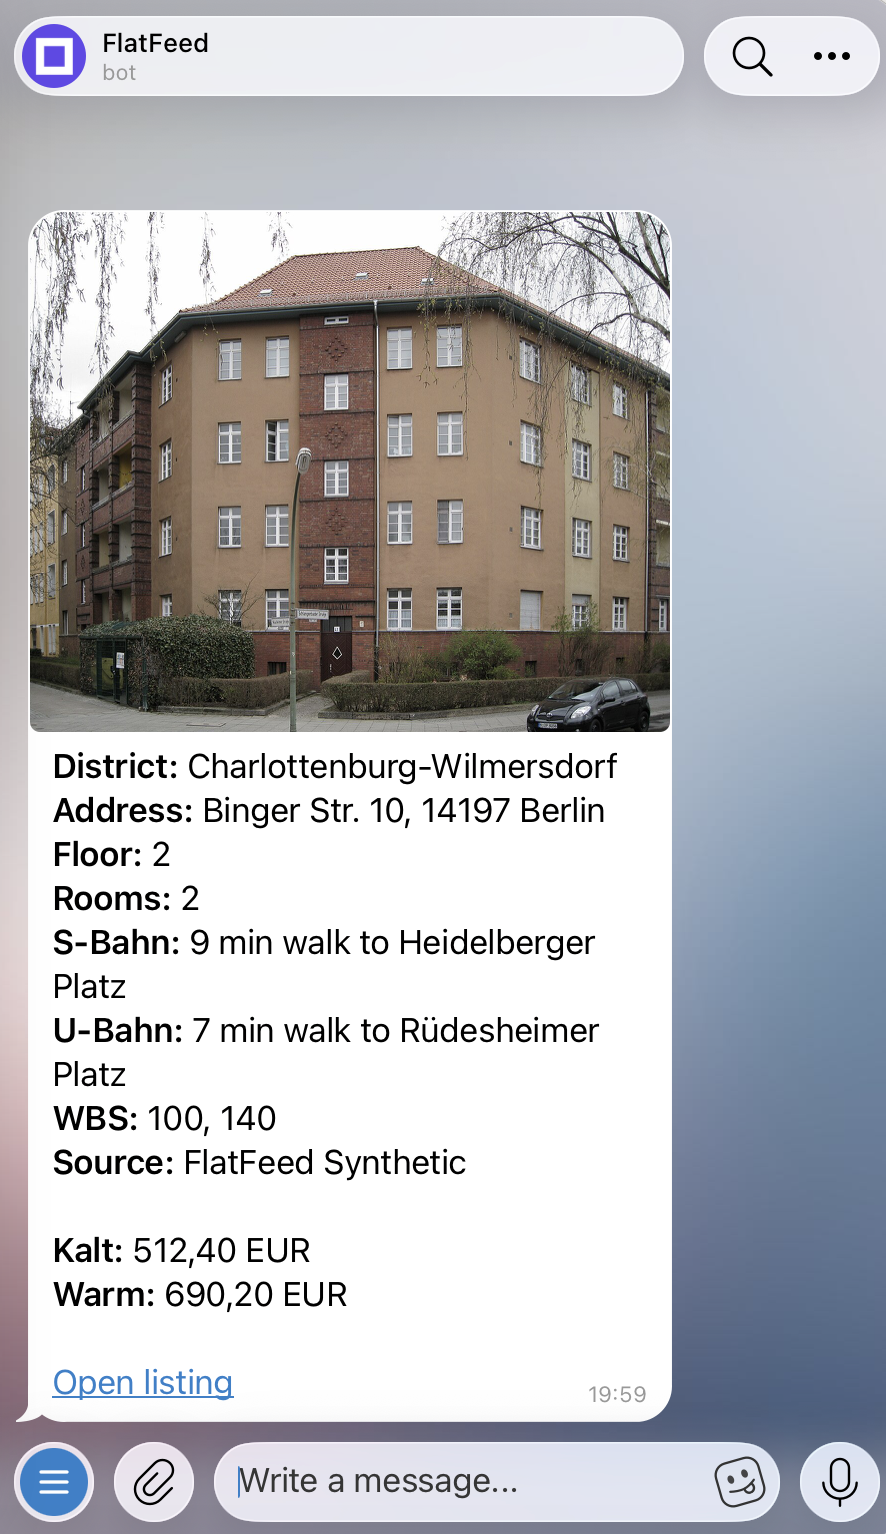
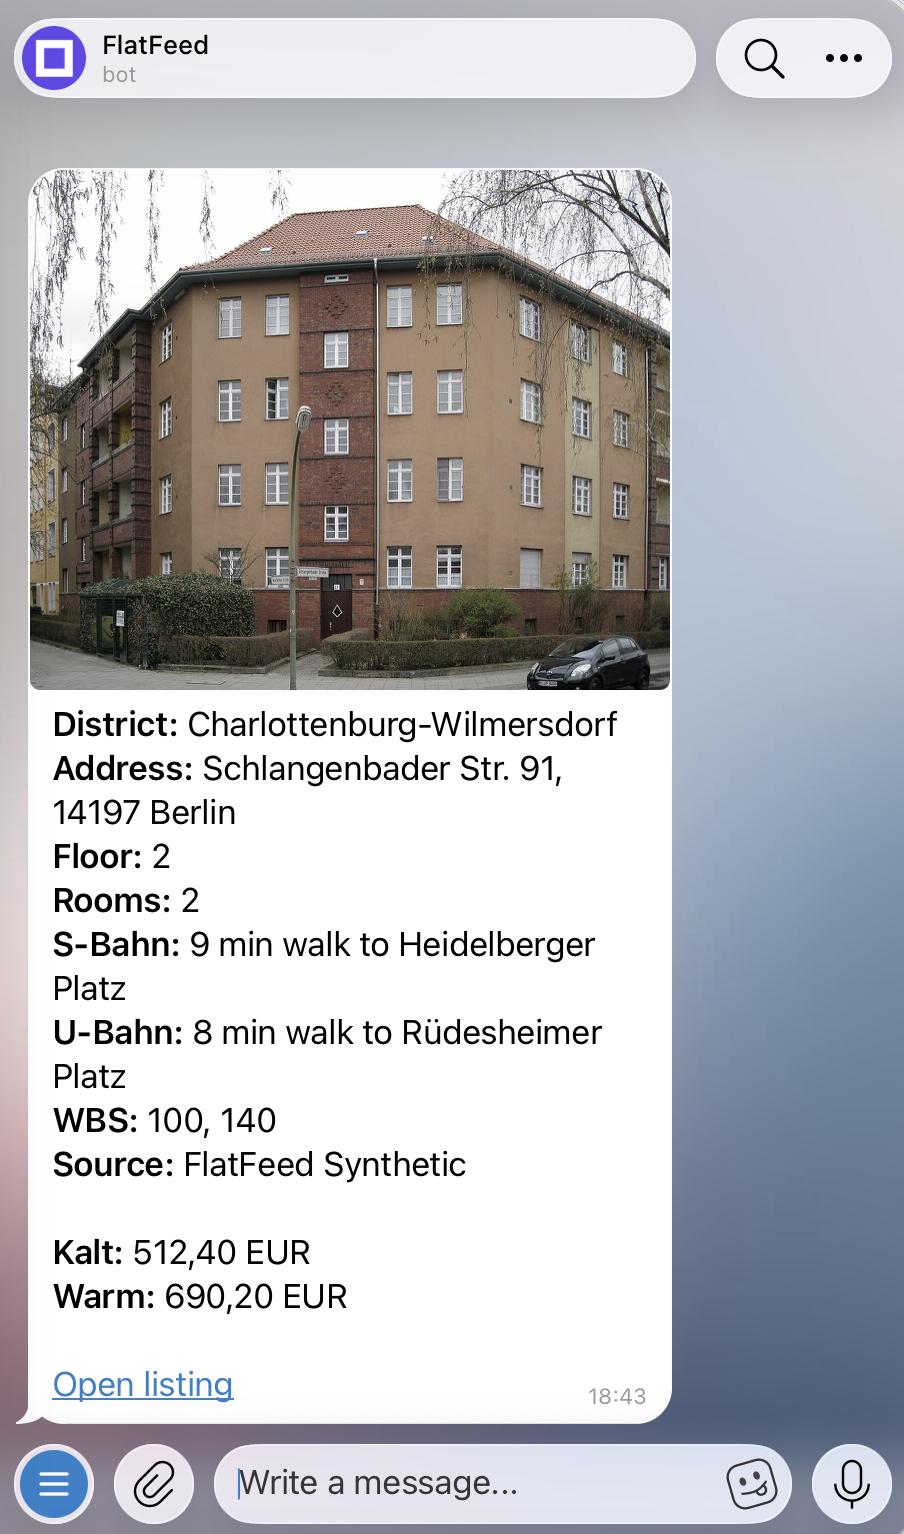
Align showcase photo with exact entrance

diff --git a/docs/demo-listing.html b/docs/demo-listing.html
@@ -52,8 +52,9 @@
           card. FlatFeed is a portfolio prototype: every listing it shows — including
           this one — comes from a local synthetic catalog, not a live housing company.
           There is no real apartment, availability, or landlord behind this page. In
-          the guided-tour showcase, the building photo and Binger Straße address are
-          a real location; the rent, floor, rooms, and WBS eligibility are synthetic.
+          the guided-tour showcase, the building photo and Schlangenbader Straße 91
+          address are a real location; the rent, floor, rooms, and WBS eligibility
+          are synthetic.
         </p>
         <p>
           Building photo: <a href="https://commons.wikimedia.org/wiki/File:Binger_Stra%C3%9Fe_10_Berlin-Wilmersdorf.jpg">Bodo Kubrak / Wikimedia Commons</a>,

diff --git a/docs/case-study.html b/docs/case-study.html
@@ -85,7 +85,7 @@
               <img
                 class="telegram-shot"
                 src="assets/flatfeed-telegram-showcase.png"
-                alt="Telegram demo screenshot showing a synthetic FlatFeed listing at Binger Str. 10 in Charlottenburg-Wilmersdorf"
+                alt="Telegram demo screenshot showing a synthetic FlatFeed listing at Schlangenbader Str. 91 in Charlottenburg-Wilmersdorf"
               >
             </div>
             <figcaption id="preview-caption">

diff --git a/synthetic/case_catalog.py b/synthetic/case_catalog.py
@@ -34,7 +34,7 @@ CASE_TEMPLATES: tuple[CaseTemplate, ...] = (
         postal_code="14197",
         title="2-Zimmer-Wohnung mit WBS 100-140",
         raw_text=(
-            "Adresse\nBinger Str. 10\n14197 Berlin, Wilmersdorf\n"
+            "Adresse\nSchlangenbader Str. 91\n14197 Berlin, Wilmersdorf\n"
             "Etage\n2\nZimmer\n2\nKaltmiete: 512,40 Euro\nWarmmiete: 690,20 Euro\n"
             "Für die Bewerbung ist ein WBS 100-140 erforderlich."
         ),
@@ -45,11 +45,11 @@ CASE_TEMPLATES: tuple[CaseTemplate, ...] = (
         truth_rooms=2.0,
         truth_floor="2",
         truth_bezirk="Charlottenburg-Wilmersdorf",
-        truth_lat=52.475428093256056,
-        truth_lon=13.30930906109402,
+        truth_lat=52.4758411,
+        truth_lon=13.3083927,
         photo_asset=(
             "assets/listing_photos/"
-            "berlin_wilmersdorf_binger_strasse_wohnblock.jpg"
+            "berlin_wilmersdorf_schlangenbader_strasse_91_wohnblock.jpg"
         ),
     ),
     CaseTemplate(

diff --git a/tests/test_synthetic_catalog.py b/tests/test_synthetic_catalog.py
@@ -31,12 +31,14 @@ class SyntheticCatalogTests(unittest.TestCase):
     def test_showcase_listing_photo_matches_its_real_location(self) -> None:
         listing = generate_synthetic_listings(count=1)[0]
 
-        self.assertIn("Binger Str. 10", listing.raw_text)
+        self.assertIn("Schlangenbader Str. 91", listing.raw_text)
         self.assertEqual(listing.truth_postal_code, "14197")
         self.assertEqual(listing.truth_bezirk, "Charlottenburg-Wilmersdorf")
+        self.assertEqual(listing.truth_lat, 52.4758411)
+        self.assertEqual(listing.truth_lon, 13.3083927)
         self.assertEqual(
             listing.image_url,
-            "assets/listing_photos/berlin_wilmersdorf_binger_strasse_wohnblock.jpg",
+            "assets/listing_photos/berlin_wilmersdorf_schlangenbader_strasse_91_wohnblock.jpg",
         )
 
     def test_all_case_templates_drive_address_level_coordinates(self) -> None:

diff --git a/synthetic/listing_photos.py b/synthetic/listing_photos.py
@@ -6,7 +6,7 @@ from pathlib import Path
 LISTING_PHOTO_ASSETS: tuple[str, ...] = (
     "assets/listing_photos/berlin_tempelhof_alboinplatz_wohnblock.jpg",
     "assets/listing_photos/berlin_hohenschoenhausen_suermondtstr_wohnblock.jpg",
-    "assets/listing_photos/berlin_wilmersdorf_binger_strasse_wohnblock.jpg",
+    "assets/listing_photos/berlin_wilmersdorf_schlangenbader_strasse_91_wohnblock.jpg",
     "assets/listing_photos/berlin_wedding_ostender_strasse_wohnblock.jpg",
     "assets/listing_photos/berlin_mitte_memhardstrasse_wohnblock.jpg",
 )

diff --git a/assets/listing_photos/LICENSES.md b/assets/listing_photos/LICENSES.md
@@ -2,8 +2,8 @@
 
 These photos are demo assets for FlatFeed synthetic listings. The guided-tour
 showcase is the documented exception to the general illustrative-photo pool:
-its Binger Straße image, address, district, and coordinates refer to the same
-real Berlin location. Apartment availability, rent, floor, rooms, and WBS
+its Schlangenbader Straße 91 image, address, district, and coordinates refer to the
+same real Berlin location. Apartment availability, rent, floor, rooms, and WBS
 eligibility remain synthetic.
 
 All files are local resized copies of Wikimedia Commons images.
@@ -12,6 +12,6 @@ All files are local resized copies of Wikimedia Commons images.
 | --- | --- | --- | --- |
 | `berlin_tempelhof_alboinplatz_wohnblock.jpg` | [Alboinplatz6 Wohnblock Tempelhof Berlin.JPG](https://commons.wikimedia.org/wiki/File:Alboinplatz6_Wohnblock_Tempelhof_Berlin.JPG) | Lienhard Schulz | [CC BY 2.5](https://creativecommons.org/licenses/by/2.5/) |
 | `berlin_hohenschoenhausen_suermondtstr_wohnblock.jpg` | [Berlin-Hohenschönhausen-Suermondtstr.56-64-Wohnblock.jpg](https://commons.wikimedia.org/wiki/File:Berlin-Hohensch%C3%B6nhausen-Suermondtstr.56-64-Wohnblock.jpg) | Bildarbeiter | [CC BY-SA 4.0](https://creativecommons.org/licenses/by-sa/4.0/); local copy resized |
-| `berlin_wilmersdorf_binger_strasse_wohnblock.jpg` | [Binger Straße 10 Berlin-Wilmersdorf.jpg](https://commons.wikimedia.org/wiki/File:Binger_Stra%C3%9Fe_10_Berlin-Wilmersdorf.jpg) | Bodo Kubrak | [CC0 1.0](https://creativecommons.org/publicdomain/zero/1.0/); local copy resized |
+| `berlin_wilmersdorf_schlangenbader_strasse_91_wohnblock.jpg` | [Binger Straße 10 Berlin-Wilmersdorf.jpg](https://commons.wikimedia.org/wiki/File:Binger_Stra%C3%9Fe_10_Berlin-Wilmersdorf.jpg) | Bodo Kubrak | [CC0 1.0](https://creativecommons.org/publicdomain/zero/1.0/); local copy resized; the visible street sign and entrance number identify Schlangenbader Straße 91 within monument 09011410 |
 | `berlin_wedding_ostender_strasse_wohnblock.jpg` | [Wedding Ostender Straße-001.jpg](https://commons.wikimedia.org/wiki/File:Wedding_Ostender_Stra%C3%9Fe-001.jpg) | Fridolin freudenfett (Peter Kuley) | [CC BY-SA 3.0](https://creativecommons.org/licenses/by-sa/3.0/) |
 | `berlin_mitte_memhardstrasse_wohnblock.jpg` | [Wohnblock memhardstraße berlin 20250822 1.jpg](https://commons.wikimedia.org/wiki/File:Wohnblock_memhardstra%C3%9Fe_berlin_20250822_1.jpg) | Z thomas | [CC BY 4.0](https://creativecommons.org/licenses/by/4.0/) |

diff --git a/README.md b/README.md
@@ -206,7 +206,7 @@ git diff --check
 - User-facing listing cards are formatted in `flatfeed/matching.py`.
 - Listing photos are third-party Wikimedia Commons demo assets with separate
   attribution and license details in `assets/listing_photos/LICENSES.md`. The
-  guided-tour showcase uses an address-aligned Binger Straße photo; its
+  guided-tour showcase uses an address-aligned Schlangenbader Straße 91 photo; its
   apartment details remain synthetic.
 - Synthetic listing URLs (the card's `Open listing` link) point at
   `docs/demo-listing.html`, a static GitHub Pages explainer — not a live
